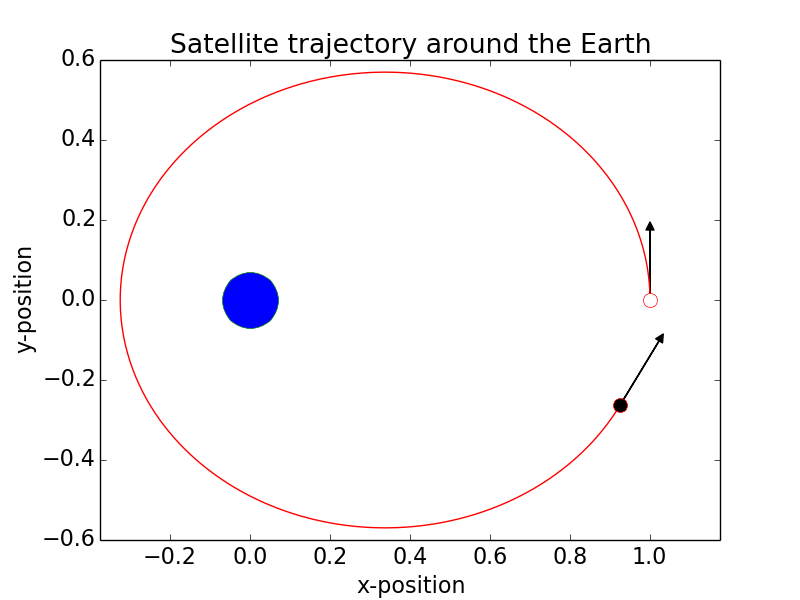
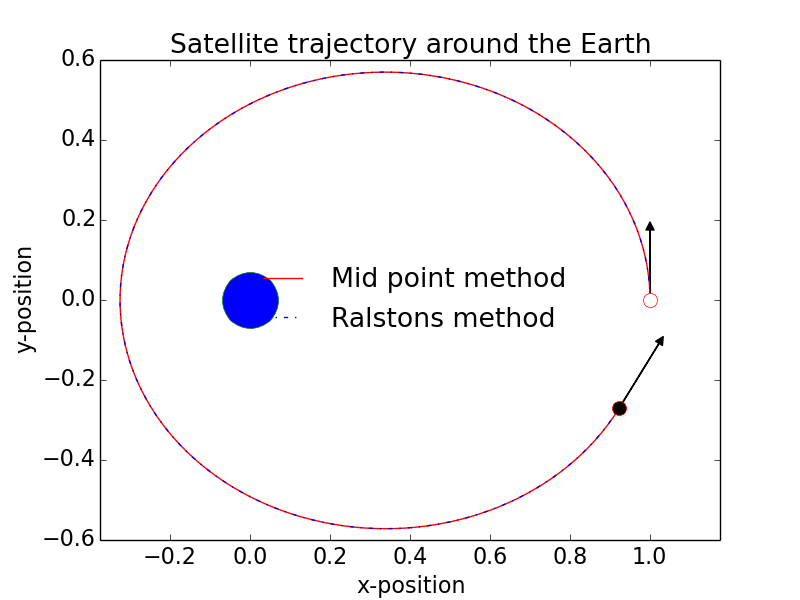
updates

diff --git a/allfiles/digital_compendium/pexercises/pexercise3/index.html b/allfiles/digital_compendium/pexercises/pexercise3/index.html
@@ -28,14 +28,14 @@ Automatically generated HTML file from DocOnce source
                2,
                u'problem:system',
                u'problem:system'),
-              (u' Problem 2: Runge-Kutta 4 ',
+              (u' Problem 2: Generalized second order scheme ',
+               2,
+               u'problem:generalized',
+               u'problem:generalized'),
+              (u' Problem 3: Runge-Kutta 4 ',
                2,
                u'problem:rk4',
-               u'problem:rk4'),
-              (u' Problem 3: Odespy ',
-               2,
-               u'problem:odespy',
-               u'problem:odespy')]}
+               u'problem:rk4')]}
 end of tocinfo -->
 
 <body>
@@ -79,7 +79,7 @@ MathJax.Hub.Config({
 <p>
 <!-- institution(s) -->
 <p>
-<center><h4>Jan 9, 2015</h4></center> <!-- date -->
+<center><h4>Feb 2, 2015</h4></center> <!-- date -->
 <p>
 
 
@@ -173,10 +173,10 @@ $$
 <p>
 <!-- --- begin exercise --- -->
 
-<h2 id="problem:rk4">Problem 2: Runge-Kutta 4<a name="problem:rk4"></a></h2>
+<h2 id="problem:generalized">Problem 2: Generalized second order scheme<a name="problem:generalized"></a></h2>
 
 <p>
-Write a Python programme that solves the system in \eqref{eq:system} using the Runge-Kutta scheme of 4th order. Use the initial values \( x_0=1.0 \), \( y_0=0.0 \), \( u_0=0.0 \) and \( v_0=0.7 \), and a time step \( \Delta t=0.01 \). Plot the satellite trajectory from \( t=t_0=0 \) to \( t=t_{\text{max}}=3.0 \).
+Write a Python programme that solves the system in \eqref{eq:system} using the generalized second order scheme (see lecture notes). Use the initial values \( x_0=1.0 \), \( y_0=0.0 \), \( u_0=0.0 \) and \( v_0=0.7 \), and a time step \( \Delta t=0.01 \). Compute and plot the satellite trajectory from \( t=t_0=0 \) to \( t=t_{\text{max}}=3.0 \) using the mid point method (\( a_1=0 \), \( a_2=1 \), \( p_1=0.5 \), \( p_2=0.5 \)) and Ralston's method (\( a_1=2/3 \), \( a_2=1/3 \), \( p_1=3/4 \), \( p_2=3/4 \)).
 
 <p>
 <!-- removed !bsol ... !esol environment
@@ -188,35 +188,21 @@ Write a Python programme that solves the system in \eqref{eq:system} using the R
 <p>
 <!-- --- begin exercise --- -->
 
-<h2 id="problem:odespy">Problem 3: Odespy<a name="problem:odespy"></a></h2>
+<h2 id="problem:rk4">Problem 3: Runge-Kutta 4<a name="problem:rk4"></a></h2>
 
 <p>
-In this problem we will use the package <em>Odespy</em> to simulate the trajectory.
-
-<p>
-<!-- --- begin hint in exercise --- -->
-
-<p>
-<b>Hint.</b>
-It may be useful to take a look at <a href="http://hplgit.github.io/odespy/doc/api/odespy.html" target="_blank"><tt>http://hplgit.github.io/odespy/doc/api/odespy.html</tt></a>, where you find information about Odespy and instructions on how to use it.
-
-<p>
-<!-- --- end hint in exercise --- -->
+Extend the program in Problem 2 and include the 4th order Runge-Kutta scheme. In addition, include the Euler solver from Pexercise 2.
 
 <p>
 <b>a)</b>
-Compute the trajectory in Problem 2 using the implemented RK4-solver in Odespy. Verify that your implementation works properly by comparing with the odespy solver.
-
-<p>
-<b>b)</b>
-Use Odespy to solve Problem 2 using Euler's method and Heun's method. Plot the trajectories together with the RK4 solution, up to a time of \( t=10.0 \). Explain what you observe.
+Compute the trajectory up to a time of \( t=10.0 \) using Euler's method, the mid point method, Ralston's method and Runge-Kutta 4. Plot the trajectories together and explain what you observe.
 
 <p>
 <!-- removed !bans ... !eans environment
  --><!-- (because of the command-line option --without_answers)
  -->
 <p>
-<b>c)</b>
+<b>b)</b>
 Change the time step to \( \Delta t=0.001 \) and plot the trajectories together again. What is changed, and why?
 
 <p>
@@ -224,7 +210,7 @@ Change the time step to \( \Delta t=0.001 \) and plot the trajectories together 
  --><!-- (because of the command-line option --without_answers)
  -->
 <p>
-<b>d)</b>
+<b>c)</b>
 Change the initial conditions to \( x_0=1.0 \), \( y_0=0.0 \), \( u_0=0.0 \) and \( v_0=1.5 \). How does the trajectory look now? What is happening?
 
 <p>
